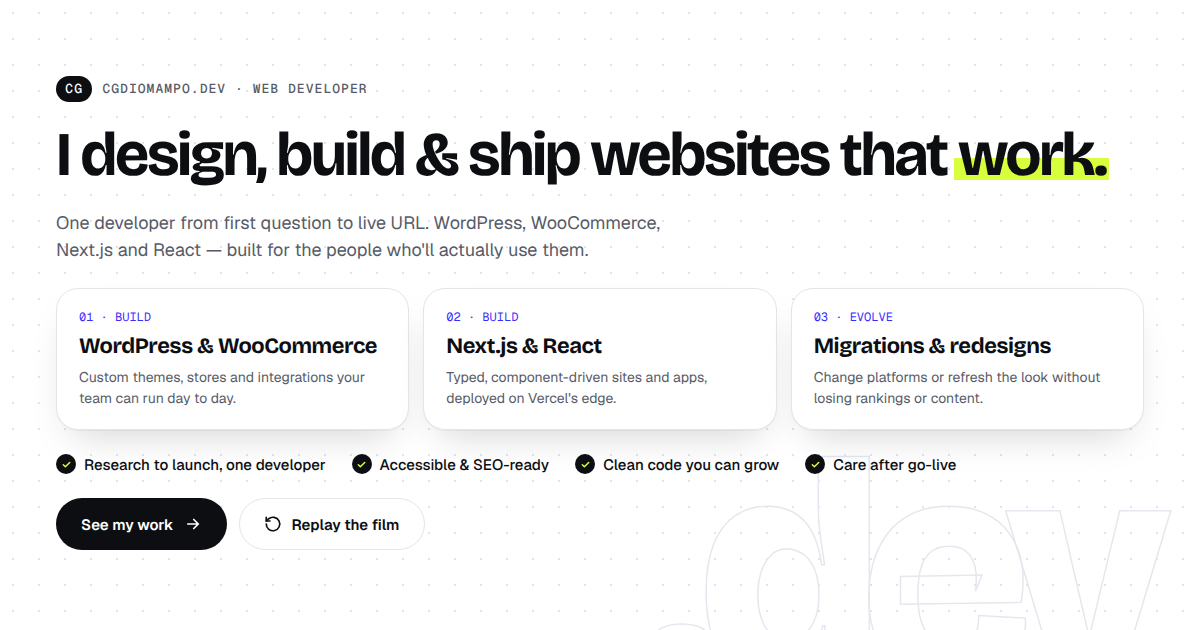
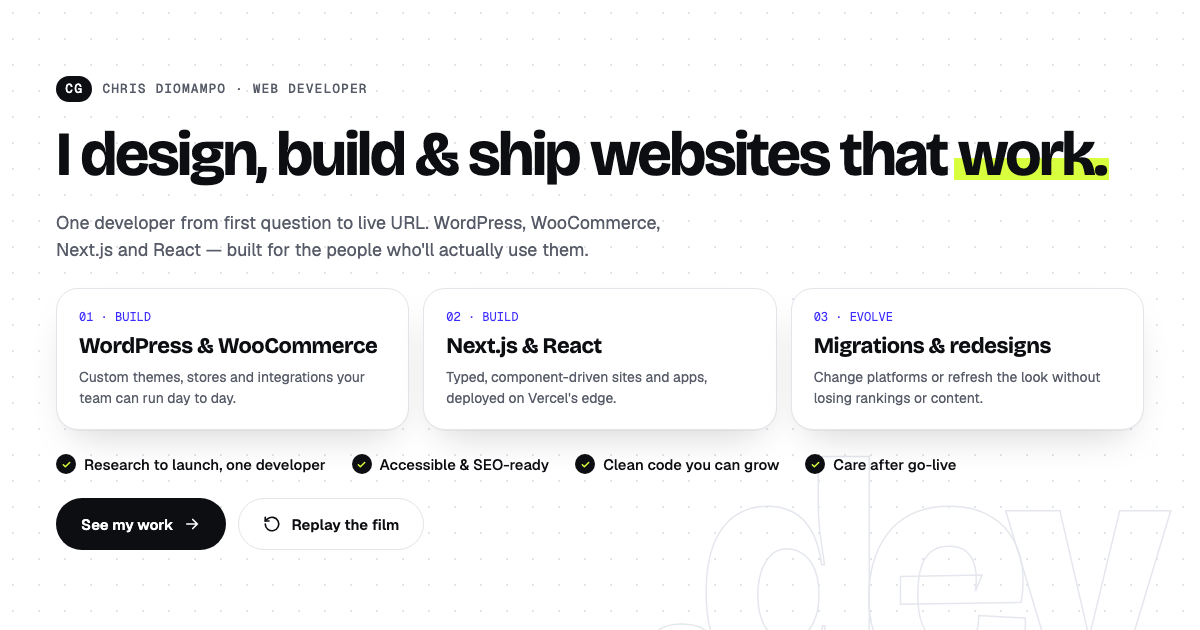
fix(brand): put the name on the hero brand card and its share image
#81 Phase A retired the domain brand in six places and the hero film was
not one of them, so the final brand card, the reduced-motion opening frame
and the home share image all still read "Cgdiomampo.dev · Web developer".
Poster re-rendered from the updated card.

The share card's alt text was the whole 123-character meta description,
entities and all, where the previous site sends a short one. It also
carried a trailing newline into the tag, because Next does not trim
opengraph-image.alt.txt; the file no longer ends with one.

Refs: #112

diff --git a/src/components/hero-film/scenes/Brand.tsx b/src/components/hero-film/scenes/Brand.tsx
@@ -71,7 +71,8 @@ export const Brand: React.FC<BrandProps> = ({worksHref = '#work', onReplay}) => 
       >
         <div style={{width: L.innerW, display: 'flex', flexDirection: 'column', gap: L.portrait ? 14 : 24}}>
           <Appear delay={14}>
-            <StepLabel n="cg" label="Cgdiomampo.dev · Web developer" size={L.step} />
+            {/* The name, not the domain: #81 Phase A retired the domain brand and the film was missed (#112) */}
+            <StepLabel n="cg" label="Chris Diomampo · Web developer" size={L.step} />
           </Appear>
           <Appear delay={19}>
             <Headline size={titleSize} style={{maxWidth: 1100}}>
